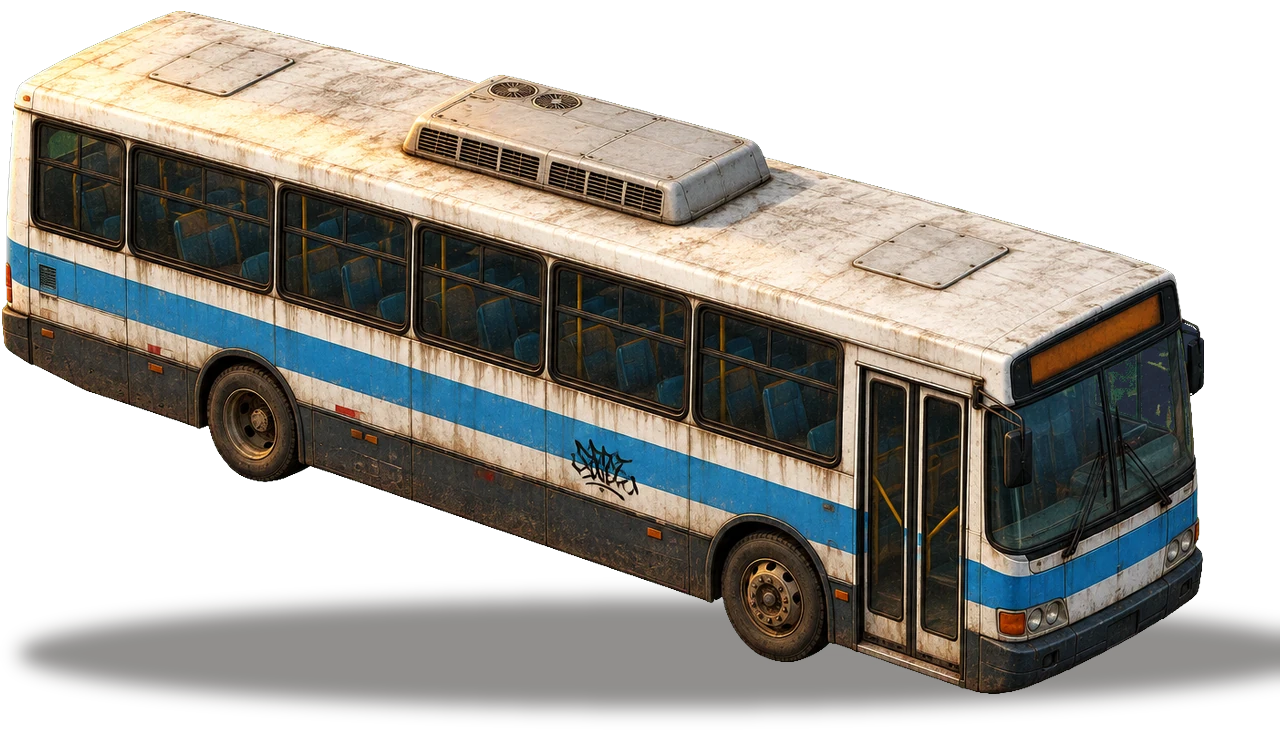
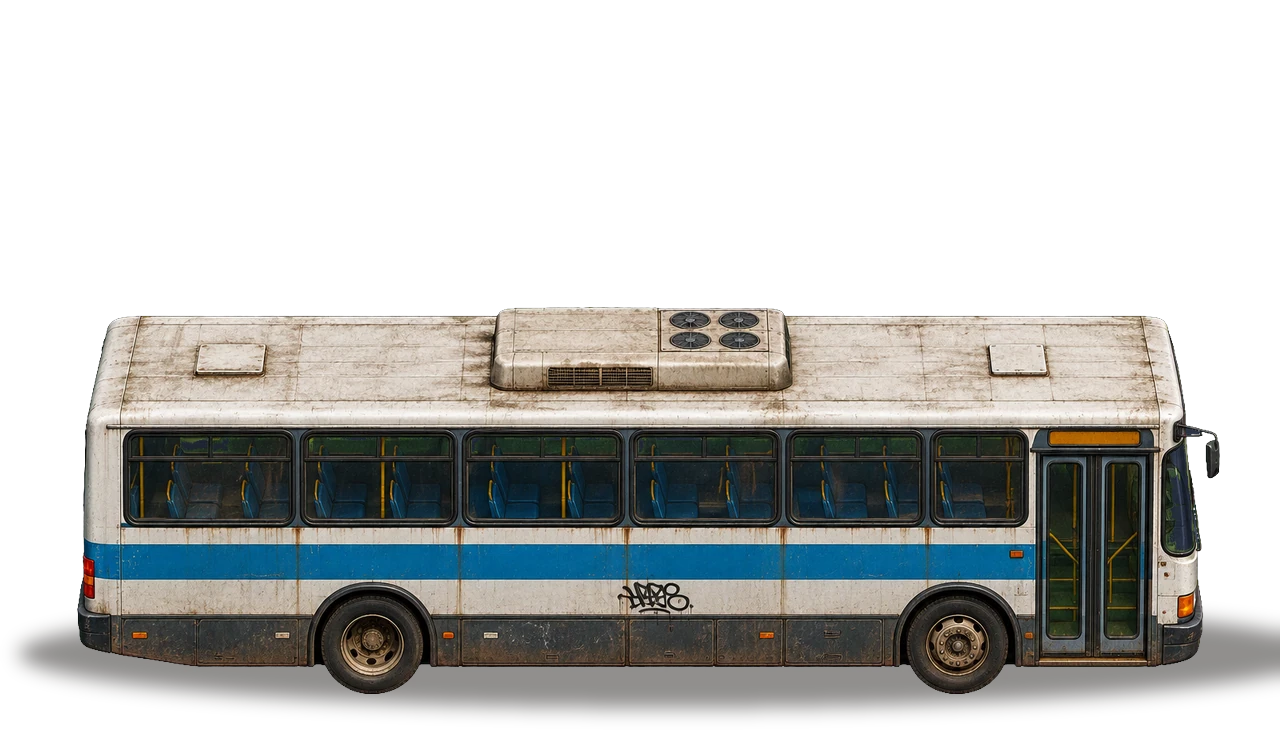
Cenário gerado no Figma: ônibus de lado, picolé, banco, lixeira, orelhão, muros, tapume, barracas, camburão e o morro
Lote 2: ônibus refeito de lado (o primeiro veio em diagonal), carrinho de
picolé, banco de praça, lixeira laranja e orelhão. Lote 3: muro pichado com a
bandeira, muro com grafite e cartazes, tapume coberto do mesmo candidato,
barracas de açaí, pastelaria e boteco (o nome do lugar vai na placa em branco
do toldo, posição medida na imagem), camburão genérico com marcas de tiro,
moto com baú, caixa d'água, sinuca, barricada, tambor em chamas, entulho e
pilha de pneus. Vários objetos por imagem para gastar menos crédito.

Claude-Session: https://claude.ai/code/session_01V3nfXgj3At2PPcBsXwjYXU

diff --git a/prototype/src/arte_cenario.js b/prototype/src/arte_cenario.js
@@ -13,16 +13,26 @@ export const ART = {
   onibus: { w: 8.8, d: 2.5, h: 3.0, padX: 0.6, top: 5.4, bot: 0.5, files: ['a'], espelha: true },
   banca: { w: 2.4, d: 1.6, h: 2.3, padX: 0.5, top: 3.9, bot: 0.4, files: ['a'] },
   milho: { w: 1.4, d: 0.8, h: 1.1, padX: 0.8, top: 2.9, bot: 0.35, files: ['a'], espelha: true },
-  picole: { w: 1.2, d: 0.8, h: 1.0, padX: 0.8, top: 2.8, bot: 0.35, files: [] },
-  banco: { w: 1.9, d: 0.55, h: 0.9, padX: 0.35, top: 1.5, bot: 0.3, files: [] },
-  lixeira: { w: 0.5, d: 0.5, h: 1.0, padX: 0.45, top: 1.6, bot: 0.3, files: [] },
-  orelhao: { w: 0.6, d: 0.5, h: 2.1, padX: 0.55, top: 2.7, bot: 0.3, files: [] },
-  muro: { w: 4.4, d: 0.4, h: 2.4, padX: 0.3, top: 3.0, bot: 0.35, files: [] },
-  tapume: { w: 4.6, d: 0.3, h: 2.2, padX: 0.3, top: 2.7, bot: 0.35, files: [] },
-  // barracas soltas no meio do calçadão: o retângulo é o balcão (o toldo passa 0,4 m de cada lado)
-  barraca_acai: { w: 3.4, d: 1.3, h: 1.1, padX: 0.75, top: 3.6, bot: 0.4, files: [] },
-  barraca_pastelaria: { w: 3.4, d: 1.3, h: 1.1, padX: 0.75, top: 3.6, bot: 0.4, files: [] },
-  barraca_boteco: { w: 3.4, d: 1.3, h: 1.1, padX: 0.75, top: 3.6, bot: 0.4, files: [] },
+  picole: { w: 1.2, d: 0.8, h: 1.0, padX: 0.8, top: 2.8, bot: 0.35, files: ['a'], espelha: true },
+  banco: { w: 1.9, d: 0.55, h: 0.9, padX: 0.35, top: 1.5, bot: 0.3, files: ['a'], espelha: true },
+  lixeira: { w: 0.5, d: 0.5, h: 1.0, padX: 0.45, top: 1.6, bot: 0.3, files: ['a'], espelha: true },
+  orelhao: { w: 0.6, d: 0.5, h: 2.1, padX: 0.55, top: 2.7, bot: 0.3, files: ['laranja'], espelha: true },
+  muro: { w: 4.4, d: 0.4, h: 2.4, padX: 0.3, top: 3.0, bot: 0.35, files: ['a', 'b'] },
+  tapume: { w: 4.6, d: 0.3, h: 2.2, padX: 0.3, top: 2.7, bot: 0.35, files: ['a'] },
+  // veículos e coisas do morro
+  camburao: { w: 4.6, d: 2.0, h: 2.1, padX: 0.7, top: 4.0, bot: 0.45, files: ['a'], espelha: true },
+  moto: { w: 1.9, d: 0.7, h: 1.1, padX: 0.4, top: 2.0, bot: 0.3, files: ['a'], espelha: true },
+  caixa_dagua: { w: 1.5, d: 1.5, h: 1.3, padX: 0.3, top: 2.6, bot: 0.3, files: ['a'] },
+  sinuca: { w: 2.4, d: 1.3, h: 0.85, padX: 0.3, top: 2.8, bot: 0.3, files: ['a'] },
+  barricada: { w: 2.4, d: 0.9, h: 1.0, padX: 0.4, top: 2.2, bot: 0.3, files: ['a'], espelha: true },
+  tambor: { w: 0.6, d: 0.6, h: 0.9, padX: 0.5, top: 2.2, bot: 0.3, files: ['a'] },
+  entulho: { w: 1.3, d: 1.0, h: 0.7, padX: 0.4, top: 1.8, bot: 0.3, files: ['a'], espelha: true },
+  pneus: { w: 0.85, d: 0.8, h: 0.6, padX: 0.35, top: 1.6, bot: 0.3, files: ['a'] },
+  // barracas soltas no meio do calçadão: o retângulo é o balcão. placa: centro e largura (px na imagem)
+  // da placa em branco do toldo, onde o jogo escreve o nome do lugar
+  barraca_acai: { w: 3.4, d: 1.3, h: 1.1, padX: 0.75, top: 3.6, bot: 0.4, files: ['a'], placa: [287, 155, 179] },
+  barraca_pastelaria: { w: 3.4, d: 1.3, h: 1.1, padX: 0.75, top: 4.4, bot: 0.4, files: ['a'], placa: [305, 197, 289] },
+  barraca_boteco: { w: 3.4, d: 1.3, h: 1.1, padX: 0.75, top: 3.6, bot: 0.4, files: ['a'], placa: [287, 176, 182] },
 };
 
 export const artKey = (kind, file) => `cen_${kind}_${file}`;

diff --git a/prototype/src/sprites.js b/prototype/src/sprites.js
@@ -52,6 +52,24 @@ export const IMAGES = {
   cen_onibus_a: 'assets/cenario/orla/onibus_a.webp',
   cen_banca_a: 'assets/cenario/orla/banca_a.webp',
   cen_milho_a: 'assets/cenario/orla/milho_a.webp',
+  cen_picole_a: 'assets/cenario/orla/picole_a.webp',
+  cen_banco_a: 'assets/cenario/orla/banco_a.webp',
+  cen_lixeira_a: 'assets/cenario/orla/lixeira_a.webp',
+  cen_orelhao_laranja: 'assets/cenario/orla/orelhao_laranja.webp',
+  cen_muro_a: 'assets/cenario/orla/muro_a.webp',
+  cen_muro_b: 'assets/cenario/orla/muro_b.webp',
+  cen_tapume_a: 'assets/cenario/orla/tapume_a.webp',
+  cen_camburao_a: 'assets/cenario/orla/camburao_a.webp',
+  cen_moto_a: 'assets/cenario/orla/moto_a.webp',
+  cen_caixa_dagua_a: 'assets/cenario/orla/caixa_dagua_a.webp',
+  cen_sinuca_a: 'assets/cenario/orla/sinuca_a.webp',
+  cen_barricada_a: 'assets/cenario/orla/barricada_a.webp',
+  cen_tambor_a: 'assets/cenario/orla/tambor_a.webp',
+  cen_entulho_a: 'assets/cenario/orla/entulho_a.webp',
+  cen_pneus_a: 'assets/cenario/orla/pneus_a.webp',
+  cen_barraca_acai_a: 'assets/cenario/orla/barraca_acai_a.webp',
+  cen_barraca_pastelaria_a: 'assets/cenario/orla/barraca_pastelaria_a.webp',
+  cen_barraca_boteco_a: 'assets/cenario/orla/barraca_boteco_a.webp',
   chao: 'assets/chao/pedra_portuguesa_ondas.jpg',
   w_capacete: 'assets/hud/w_capacete.png',
   w_boleto: 'assets/hud/w_boleto.png',

diff --git a/prototype/src/render_mundo.js b/prototype/src/render_mundo.js
@@ -220,14 +220,15 @@ export function drawPlace(ctx, pl, cam, ppu) {
     const s = ((k.x1 - k.x0) / art.w) * (ppu / ART_S);
     ctx.drawImage(im, a.x - art.padX * ART_S * s, a.y - art.top * ART_S * s, im.width * s, im.height * s);
     const label = pl.sign || pl.kind.toUpperCase();
+    const [px, py, pw] = art.placa;
     const fs = Math.max(8, ppu * 0.3);
     ctx.font = `900 ${fs}px "Barlow Semi Condensed", "Arial Narrow", sans-serif`;
     ctx.textAlign = 'center';
     ctx.textBaseline = 'middle';
     ctx.fillStyle = look.letra;
-    const cx = a.x + ((k.x1 - k.x0) / 2) * ppu;
-    const cy = a.y + 0.36 * ppu * cam.k - 2.77 * ppu;
-    ctx.fillText(label, cx, cy, 1.9 * ppu);
+    const ox = a.x - art.padX * ART_S * s;
+    const oy = a.y - art.top * ART_S * s;
+    ctx.fillText(label, ox + px * s, oy + py * s, pw * s * 0.9);
     ctx.textBaseline = 'alphabetic';
     return;
   }
